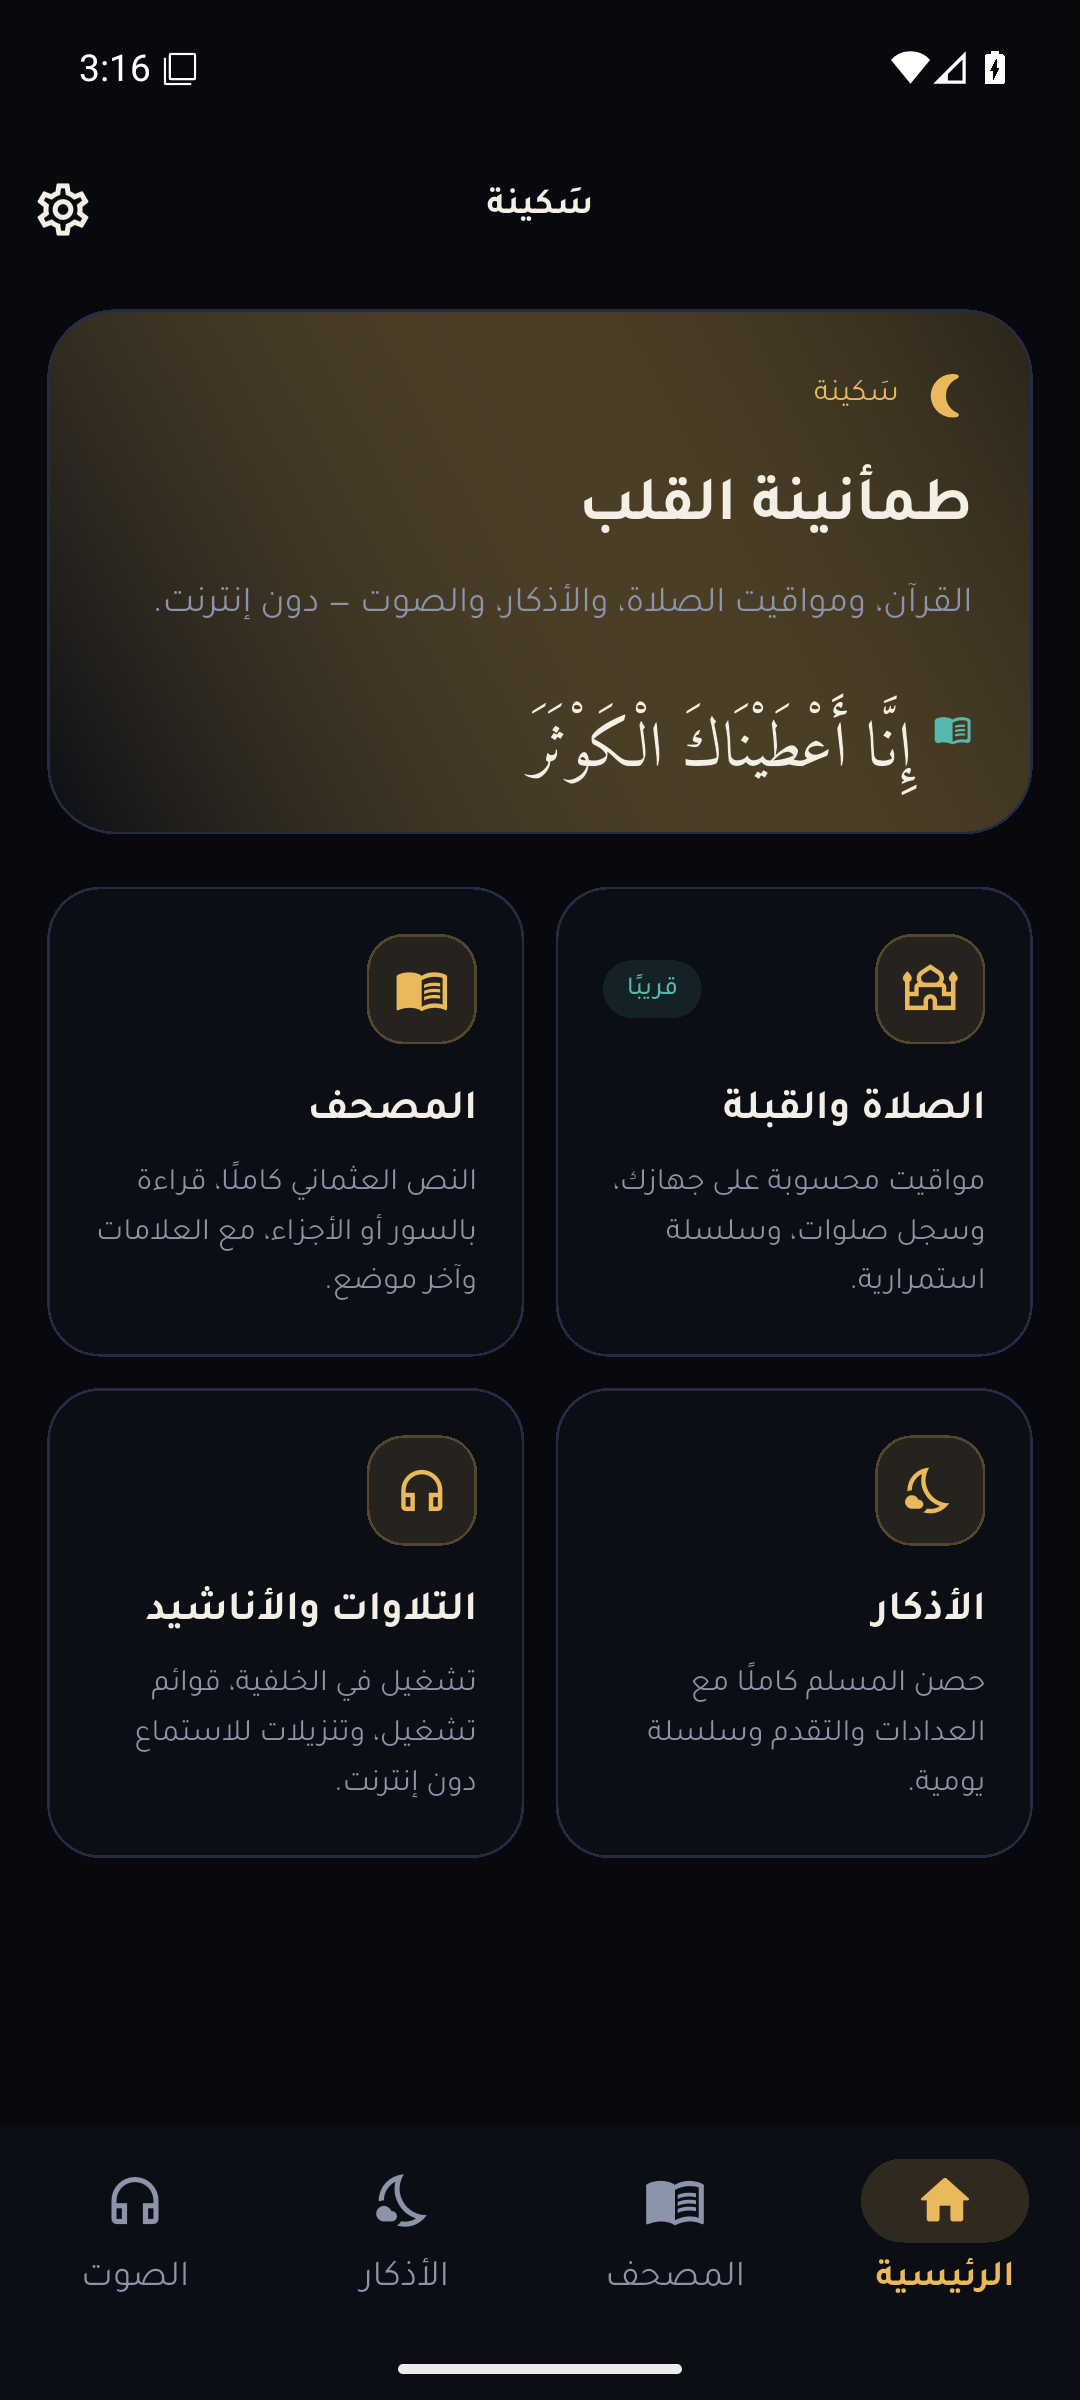
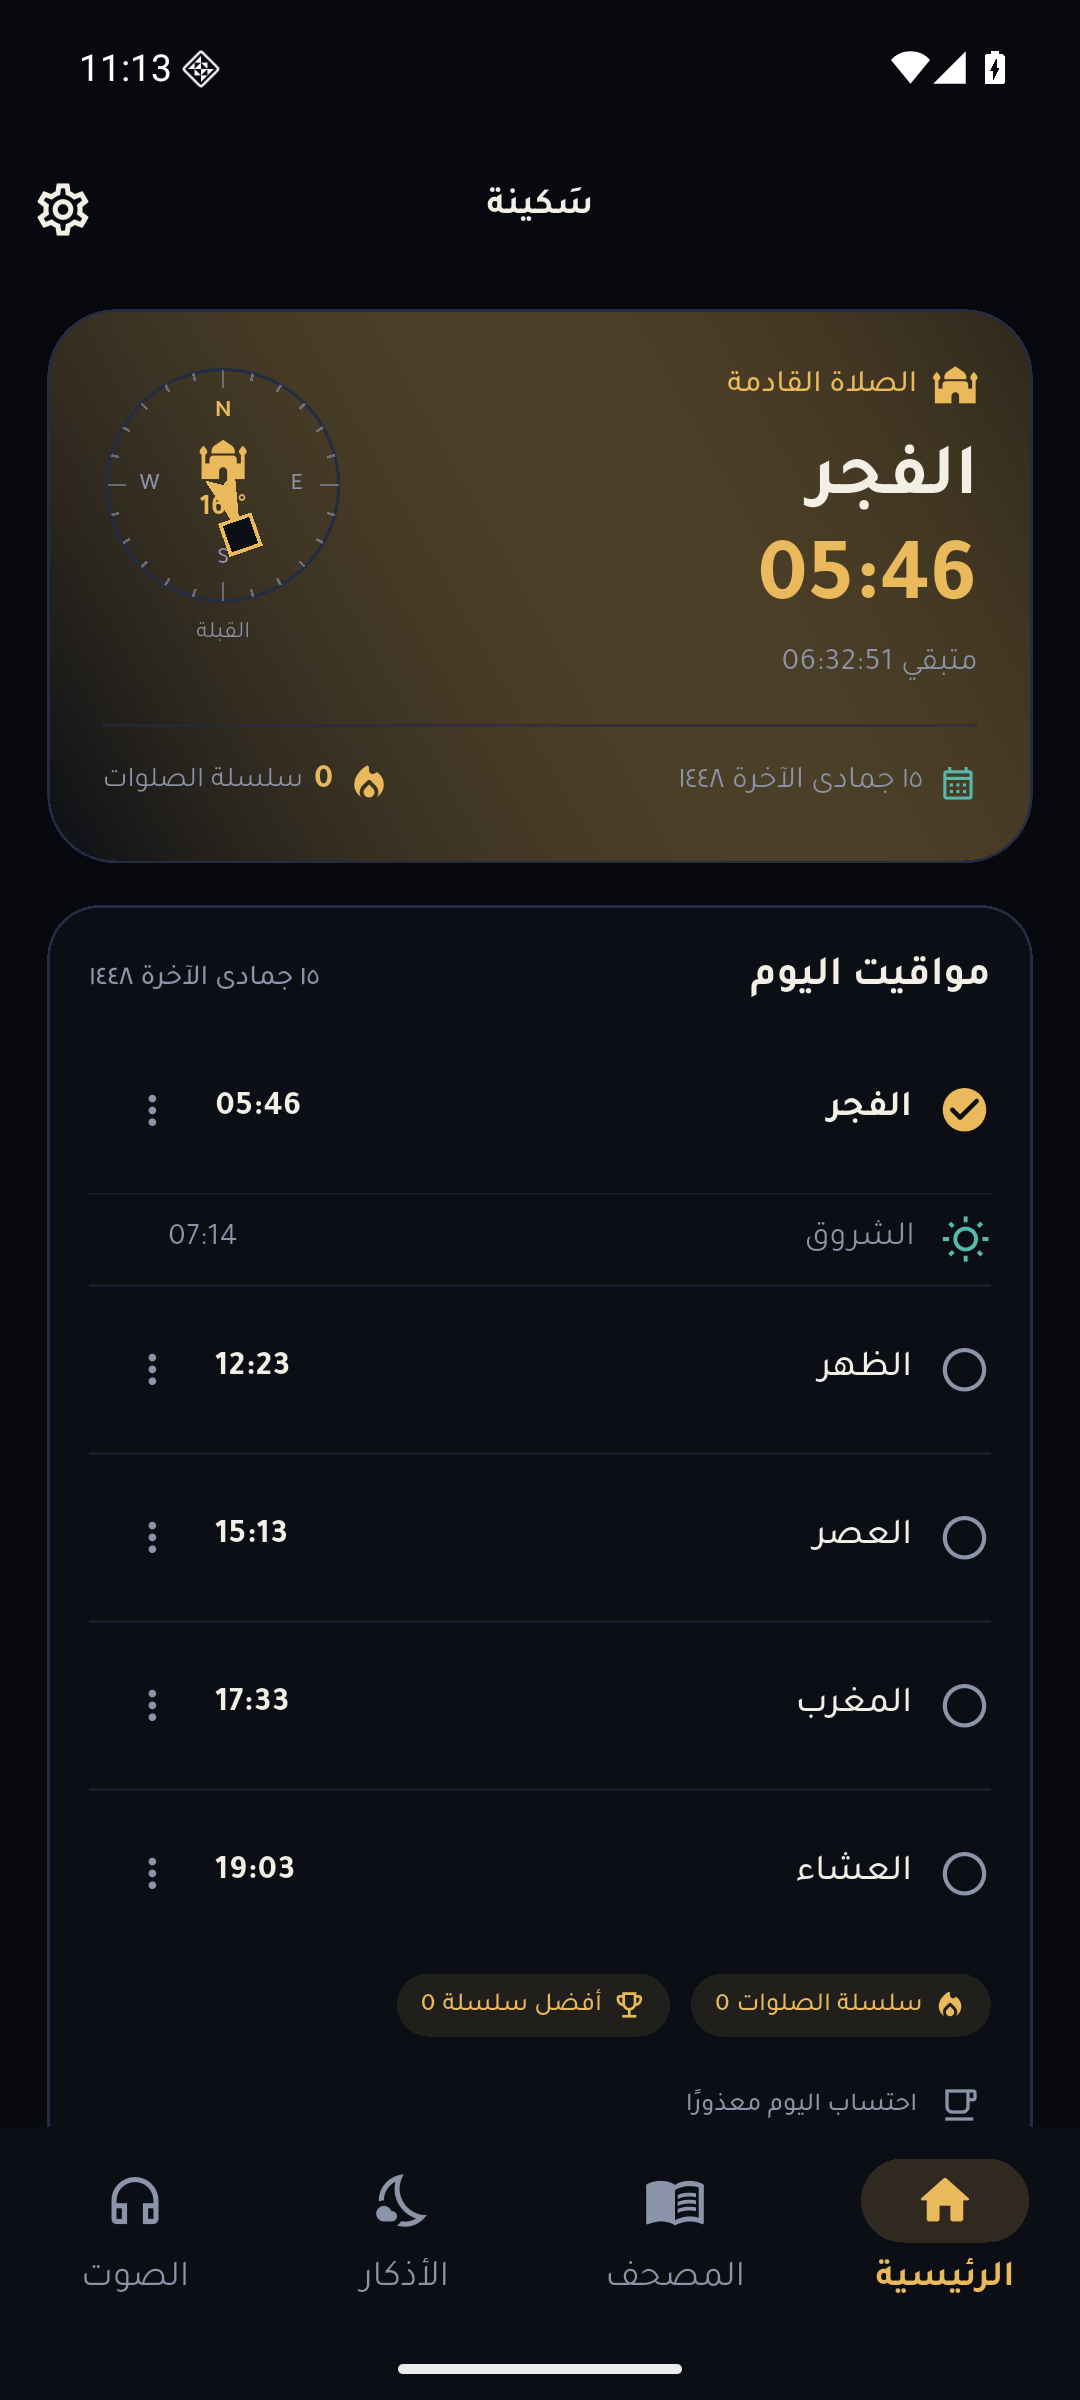
docs(mobile): update M2 screenshots and feature notes

diff --git a/mobile/README.md b/mobile/README.md
@@ -6,7 +6,7 @@ and prayer calculations but not the desktop runtime.
 
 ## Status
 
-Phase **M1** — offline data layer.
+Phase **M2** - dashboard, prayer, streaks and settings.
 
 - Arabic-first UI with `flutter_localizations` and generated ARB accessors.
 - Bottom navigation: Dashboard, Mushaf, Adhkar, Audio.
@@ -23,11 +23,12 @@ that consume them arrive in M2–M4.
 
 ```
 lib/data/
-  db/app_database.dart      Drift schema v2 (content + user state)
-  models/                   Surah, Ayah, Adhkar, ...
-  repositories/             read-only content interfaces
+  cities.dart              59 offline city presets
+  db/app_database.dart      Drift schema v3 (content + user state)
+  models/                   Surah, Ayah, Adhkar, local date keys
+  repositories/             content, prayer log
   seed/                     QuranSeeder, AdhkarSeeder
-  worship/                  prayer methods, Adhan wrapper, Hijri, qibla
+  worship/                  settings, schedule, prayer log, Hijri, qibla
   app_services.dart         startup seeding and shared repositories
 ```
 
@@ -48,7 +49,13 @@ lib/data/
   Turkey), with the seventh-of-the-night high-latitude rule. Returned times are
   wall-clock values on the requested local date for the supplied UTC offset.
 - Hijri dates use Umm al-Qura tables and support the desktop-style day
-  adjustment. Qibla bearings are computed offline from coordinates.
+  adjustment. Qibla bearings are computed offline from coordinates; the M2 dial
+  shows the bearing from true north, with live device heading planned for polish.
+- PrayerScheduleService resolves the selected IANA timezone (including DST)
+  and computes today/tomorrow so the next prayer rolls over correctly at
+  midnight. PrayerLogRepository stores each prayer status and computes the
+  current/best streak from YYYY-MM-DD local dates; excused days preserve a
+  chain.
 
 Attribution and licence files live next to the assets:
 `QURAN_LICENSE.md` (Tanzil, CC BY 3.0) and `ADHKAR_LICENSE.md`
@@ -65,7 +72,8 @@ writes both the desktop and mobile Quran bundles from the same XML.
 - Seeders skip completed collections; the version gate avoids reading the
   1.7 MB Quran asset on every launch.
 - Tests use in-memory databases, real bundled assets and generated migration
-  snapshots.
+  snapshots. M2 adds schedule/timezone matrices, prayer logging and streak
+  tests, plus dashboard and settings widget tests.
 
 
 ## Requirements
